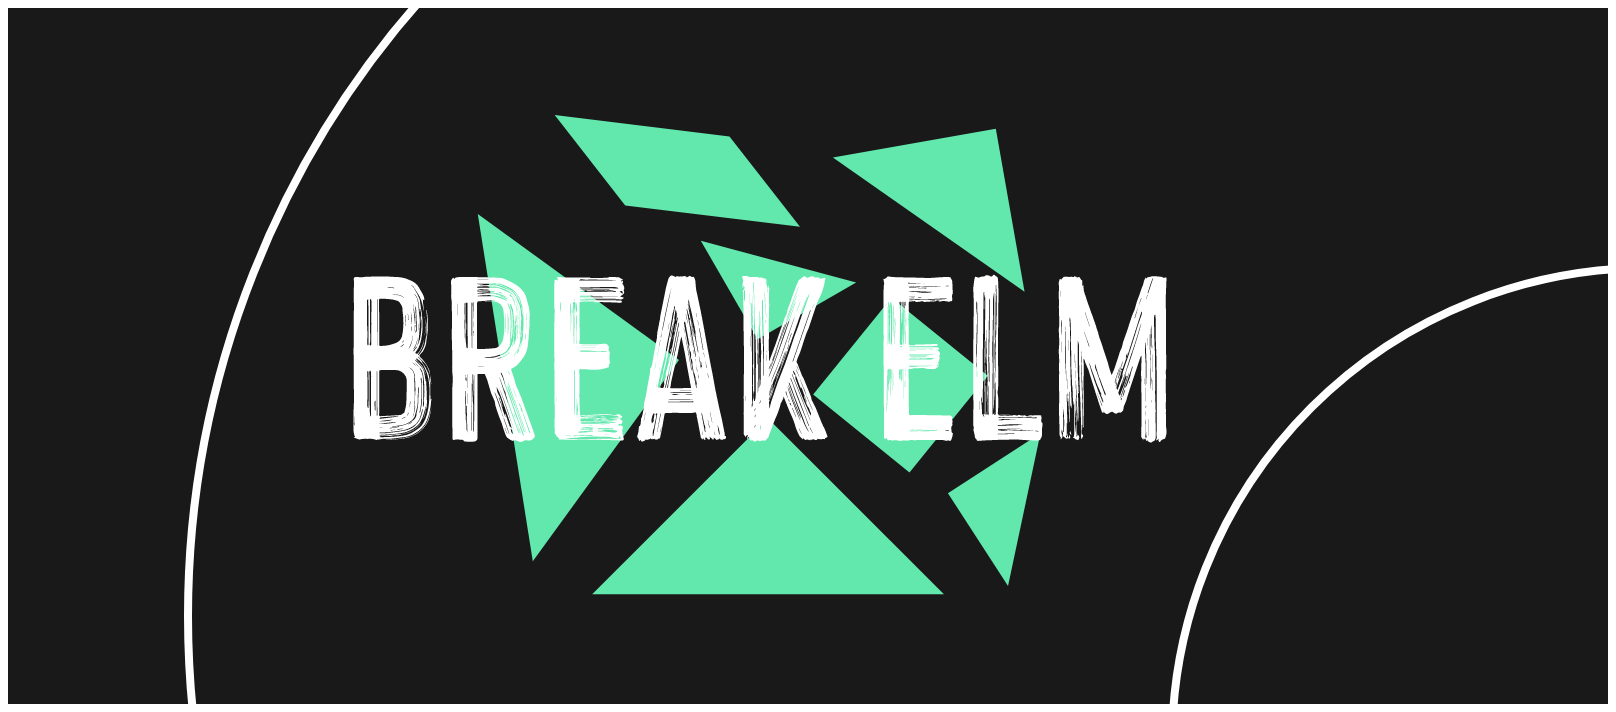
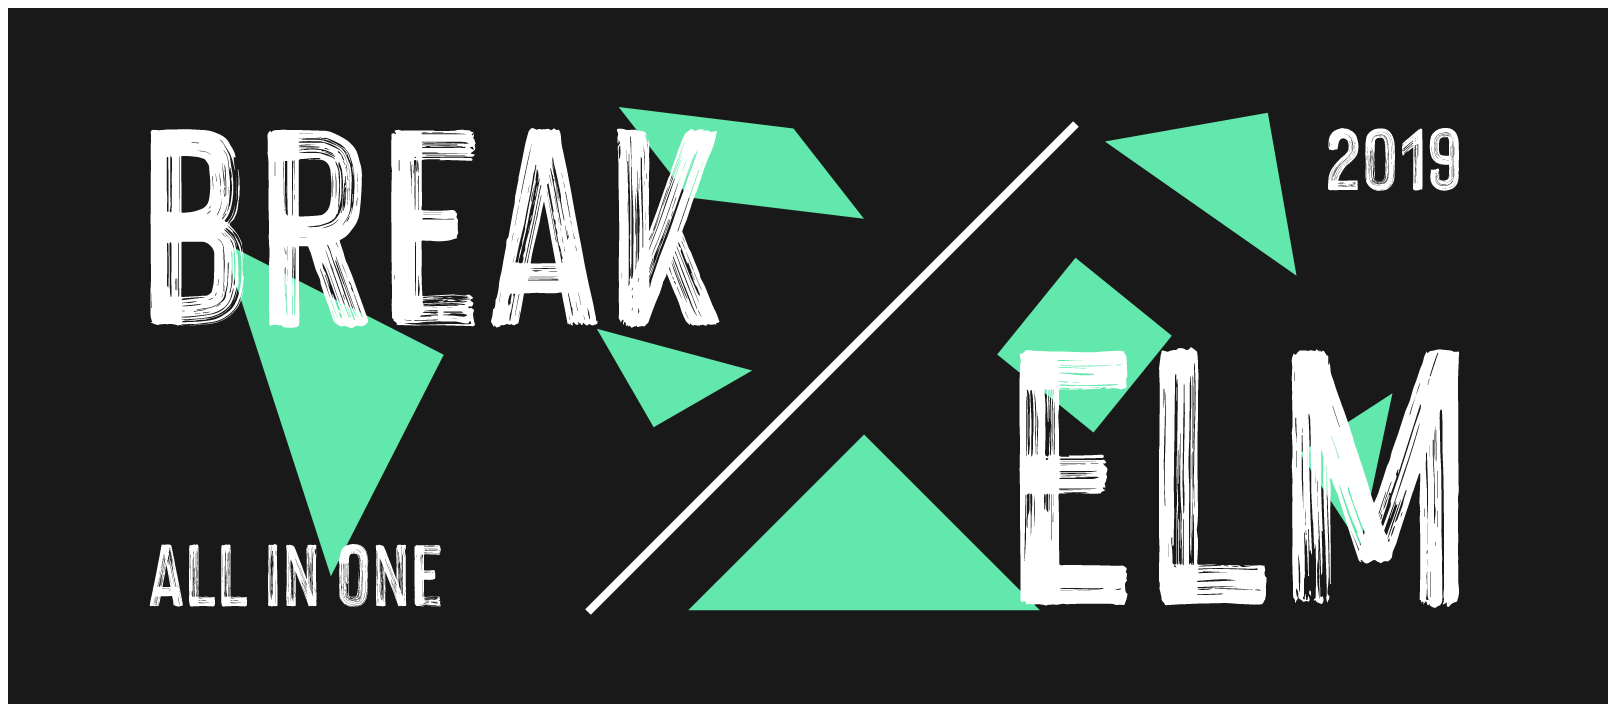
add new project thumbnails and change project names

diff --git a/src/templates/blog-post.js b/src/templates/blog-post.js
@@ -79,7 +79,6 @@ export default props => {
                     justifyContent: 'space-between',
                     alignItems: 'center',
                     width: '100%',
-                    // borderBottom: '1px solid var(--black)',
                     borderBottom: 'var(--border)',
                     padding: '24px 0 16px 0',
                     marginBottom: 48,

diff --git a/src/templates/blog-index.js b/src/templates/blog-index.js
@@ -105,6 +105,9 @@ const StyledProjects = styled(Projects)`
       margin: 0;
       color: var(--font-grey);
       font-size: 14px;
+      text-overflow: ellipsis;
+      white-space: nowrap;
+      overflow: hidden;
     }
     .project-links {
       border-top: var(--border);

diff --git a/gatsby-config.js b/gatsby-config.js
@@ -54,6 +54,7 @@ module.exports = {
     },
     `gatsby-transformer-sharp`,
     `gatsby-plugin-sharp`,
+    `gatsby-plugin-optimize-svgs`,
     {
       resolve: `gatsby-plugin-google-analytics`,
       options: {

diff --git a/src/utils/global.css b/src/utils/global.css
@@ -382,6 +382,11 @@ main {
     flex-direction: column;
     align-items: flex-start !important;
   }
+
+  table {
+    overflow-x: auto;
+    display: block;
+  }
 }
 
 .gatsby-highlight pre[class*='language-'] {

diff --git a/src/pages/dezine-design-system/index.md b/src/pages/dezine-design-system/index.md
@@ -4,6 +4,8 @@ date: 2019-09-26
 spoiler: A less but better design system.
 type: project
 github: https://github.com/DezineLeo/dezine
+thumbnail: ./thumbnail.png
+logo: ./logo.png
 ---
 
 Stay tuned...
@@ -14,6 +16,7 @@ Stay tuned...
 1. [Material Design](https://material.io/)
 2. [Carbon](https://www.carbondesignsystem.com/)
 3. [.pulse](https://pulse.heartbeat.ua/)
+4. [Chakra UI](https://github.com/chakra-ui/chakra-ui)
 
 
 

diff --git a/src/pages/elm-lang-doc-zh/index.md b/src/pages/elm-lang-doc-zh/index.md
@@ -1,15 +1,15 @@
 ---
-title: Elm for Chinese
+title: Break Elm
 date: 2019-09-26
 spoiler: A Chinese version of Elm docs.
 type: project
 github: https://github.com/DezineLeo/elm-lang-docs-zh
 site: https://elm.dezineleo.com/
-thumbnail: ./elm_for_chinese_thumbnail.png
+thumbnail: ./thumbnail.png
 logo: ./logo.png
 ---
 
-![Featured Image](./featured.png)
+![Break Elm](./featured.png)
 
 ## Elm 中文使用手册
 

diff --git a/src/pages/regular-expression-in-javascript/index.md b/src/pages/regular-expression-in-javascript/index.md
@@ -263,4 +263,5 @@ Regular expression is not that big thing, just keep in mind, **no rules, no RegE
 6. [RegExp | Eloquent JavaScript](https://eloquentjavascript.net/09_regexp.html)
 7. [RegExr](https://regexr.com)
 8. [Regular Expression the last guide](https://medium.com/tech-tajawal/regular-expressions-the-last-guide-6800283ac034)
+9. [Regex Crossword](https://regexcrossword.com/)
 

diff --git a/src/pages/learn-x-to-build-y/index.md b/src/pages/learn-x-to-build-y/index.md
@@ -1,9 +1,11 @@
 ---
-title: Programming challenge
+title: Learn X to build Y
 date: '2019-09-18'
 spoiler: Learn a new programming language / technique to build something real world.
 type: project
 github: https://github.com/DezineLeo/programming-challenge
+thumbnail: ./thumbnail.png
+logo: ./logo.png
 ---
 
 ![What I cannot create, I do not understand.](./feynman.png)

diff --git a/src/pages/jam-stack/index.md b/src/pages/jam-stack/index.md
@@ -1,0 +1,11 @@
+---
+title: JAMstack best practices
+date: 2019-10-17
+spoiler: I've been searching for this kind of thing since I started to build my own website. 
+type: topic
+---
+
+Stay tuned...
+
+[JAMstack](https://www.netlify.com/oreilly-jamstack/#download)
+
